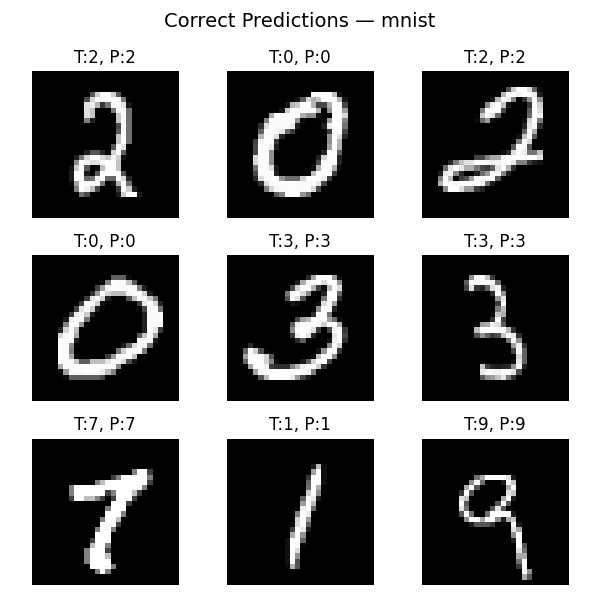
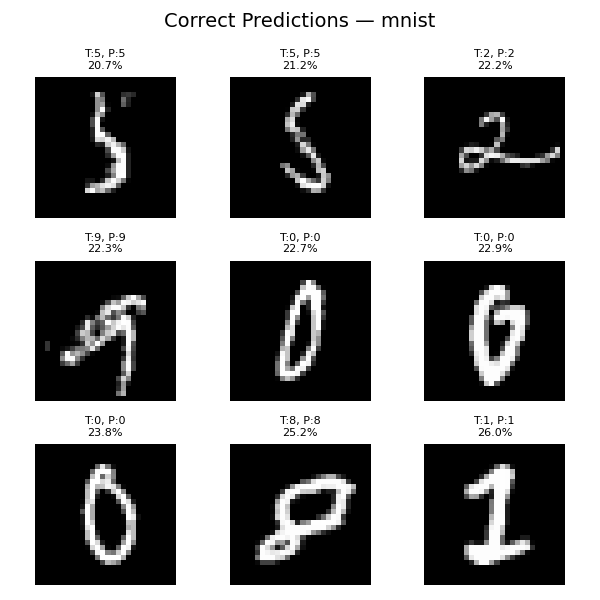
least confident right and most confident wrong

diff --git a/train_multiclass.py b/train_multiclass.py
@@ -89,7 +89,7 @@ def train_multiclass(X_train, X_test, y_train, y_test, y_train_oh, y_test_oh, ar
         f"Best Loss: {best_test_loss: .6f}\nAccuracy at best Loss: {best_loss_acc: .2%}\nBest Accuracy: {best_acc: .2%}"
     )
 
-    return model, y_test, y_pred_labels, training_losses, test_losses
+    return model, y_test, y_pred, y_pred_labels, training_losses, test_losses
 
 
 def plot_confusion_matrix(y_test, y_pred_labels, dataset):
@@ -124,24 +124,35 @@ def plot_loss_curve(training_losses, test_losses, dataset):
     plt.savefig(f"media/{dataset}_loss_curve.png")
 
 
-def plot_classification_examples(X, y_true, y_pred, dataset, correct=True, n=9):
+def plot_classification_examples(X, y_true, y_pred, y_pred_labels, dataset, correct=True, n=9):
+    confidences = np.max(y_pred, axis=1)
     if correct:
-        indices = np.where(y_pred == y_true)[0]
+        indices = np.where(y_pred_labels == y_true)[0]
         title_prefix = "Correct"
+        sort_order = confidences
     else:
-        indices = np.where(y_pred != y_true)[0]
+        indices = np.where(y_pred_labels != y_true)[0]
         title_prefix = "Incorrect"
+        sort_order = -confidences
 
     if len(indices) == 0:
         print("No matching examples to display.")
         return
 
-    samples = np.random.choice(indices, size=min(n, len(indices)), replace=False)
+    sorted_indices = indices[np.argsort(sort_order[indices])]
+    samples = sorted_indices[: min(n, len(sorted_indices))]
 
-    fig, axes = plt.subplots(3, 3, figsize=(6, 6))
+    grid_size = int(np.ceil(np.sqrt(n)))
+    fig, axes = plt.subplots(grid_size, grid_size, figsize=(6, 6))
+
     for ax, idx in zip(axes.ravel(), samples):
         ax.imshow(X[idx].reshape(28, 28), cmap="gray")
-        ax.set_title(f"T:{y_true[idx]}, P:{y_pred[idx]}")
+        ax.set_title(
+            f"T:{y_true[idx]}, P:{y_pred_labels[idx]}\n{confidences[idx] * 100:.1f}%", fontsize=8
+        )
+        ax.axis("off")
+
+    for ax in axes.ravel()[len(samples) :]:
         ax.axis("off")
 
     plt.suptitle(f"{title_prefix} Predictions — {dataset}", fontsize=14)
@@ -163,12 +174,12 @@ if __name__ == "__main__":
 
     X_train, X_test, y_train, y_test, y_train_oh, y_test_oh = load_data()
 
-    model, y_test, y_pred_labels, training_losses, test_losses = train_multiclass(
+    model, y_test, y_pred, y_pred_labels, training_losses, test_losses = train_multiclass(
         X_train, X_test, y_train, y_test, y_train_oh, y_test_oh, args
     )
 
     plot_confusion_matrix(y_test, y_pred_labels, dataset)
     plot_loss_curve(training_losses, test_losses, dataset)
 
-    plot_classification_examples(X_test, y_test, y_pred_labels, dataset, correct=True)
-    plot_classification_examples(X_test, y_test, y_pred_labels, dataset, correct=False)
+    plot_classification_examples(X_test, y_test, y_pred, y_pred_labels, dataset, correct=True)
+    plot_classification_examples(X_test, y_test, y_pred, y_pred_labels, dataset, correct=False)
